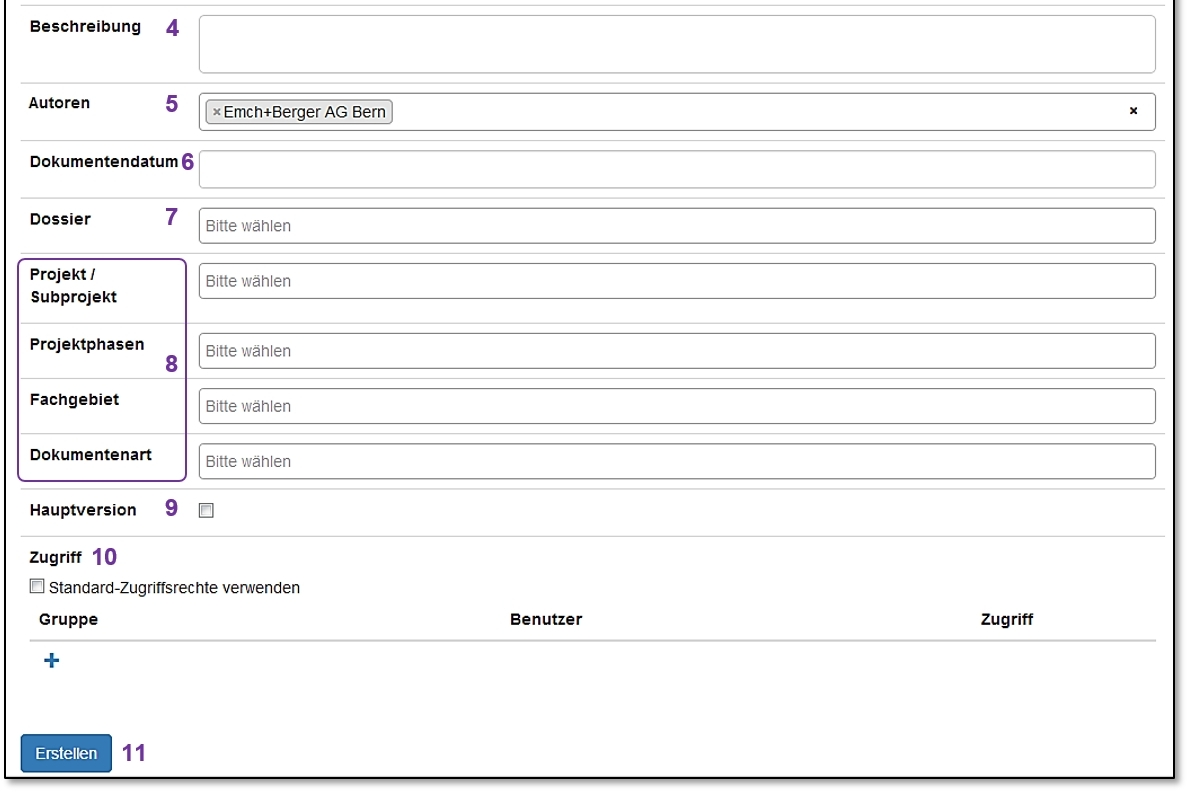
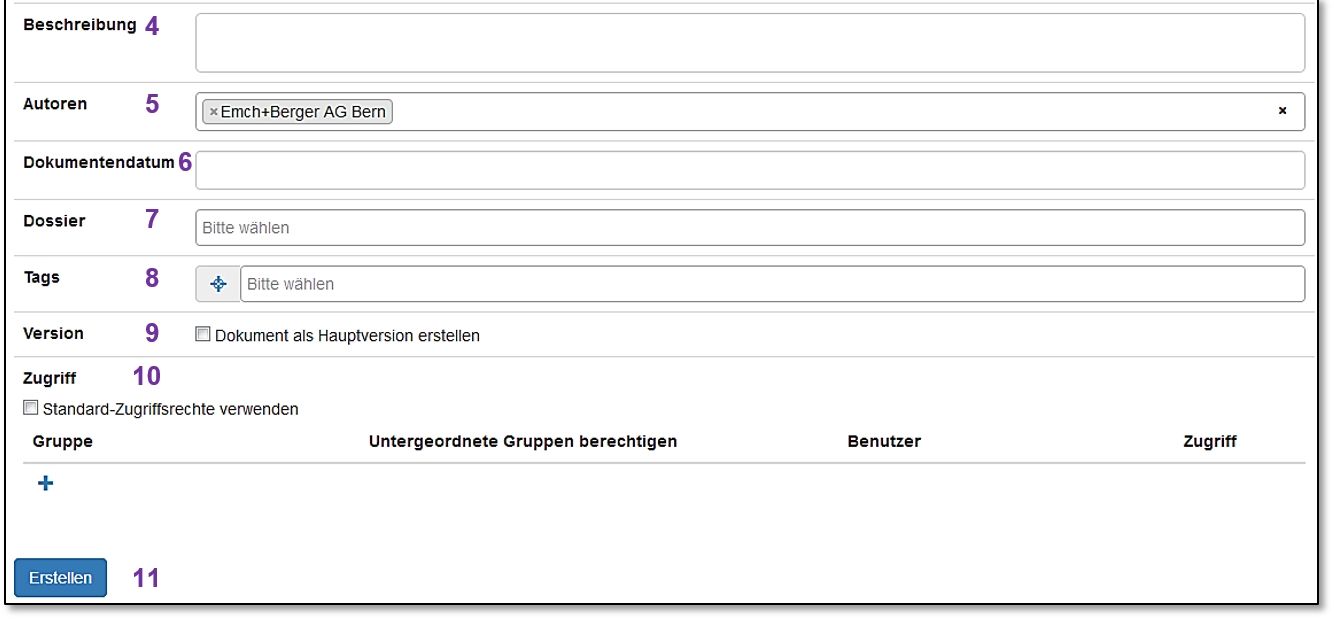
[german] Anpassung Dokumentenablage
Dokumentation der neuen Tag-Funktion/Struktur

Changed region(s): [[0.0, 0.0, 0.9941, 1.0], [0.0311, 0.8261, 0.0621, 0.8567]]

diff --git a/german/chapters/11_Dokumentenablage/11_Dokumentenablage.tex b/german/chapters/11_Dokumentenablage/11_Dokumentenablage.tex
@@ -245,7 +245,9 @@ Haben Sie ein Dokument hochgeladen oder einen Internet-Link verknüpft, können 
 
 \vspace{\baselineskip}
 
-In der Beschreibung \col{(4)} können Sie ergänzende Notizen hinterlegen. Unter Autoren \col{(5)} können Sie mittels Dropdown-Menü die Autoren auswählen. Ein Autor muss vorher erfasst worden sein. Falls ein Autor in der Liste fehlt, kann er durch den Administrator/zentrale Stelle angepasst werden. Geben Sie optional ein Dokumentendatum an \col{(6)}. Soll das Dokument einem Dossier (siehe Kapitel \ref{bkm:Ref442544219}) zugeordnet werden, kann dieses mit dem Dropdown-Menü \col{(7)} ausgewählt werden (Ein Dossier muss zuvor erstellt worden sein). Ein Dokument kann mehreren Dossiers zugeordnet werden. Klicken Sie erneut ins Dropdown-Menü, um das Dokument weiteren Dossiers zuzuordnen. Es können 'Tags' \col{(8)} definiert werden, welche dann einem Dokument zugeordnet werden können. So ist es später möglich, nach bestimmten 'Tags' zu suchen und auf diese Weise Dokumente bestimmter Projekte, Projektphasen, Fachgebiete oder Dokumentenarten zu finden. Tag-Themen (z.B. Fachgebiet) wie auch die einzelnen Tags (z.B. Bahnübergänge, Beleuchtung, Betrieb etc. können nur durch den Administrator (zentrale Stelle) angepasst resp. ergänzt werden. Fehlt etwas, nehmen Sie bitte mit der entsprechenden Stelle Kontakt auf). \newline
+In der Beschreibung \col{(4)} können Sie ergänzende Notizen hinterlegen. Unter Autoren \col{(5)} können Sie mittels Dropdown-Menü die Autoren auswählen. Ein Autor muss vorher erfasst worden sein. Falls ein Autor in der Liste fehlt, kann er durch den Administrator/zentrale Stelle angepasst werden. Geben Sie optional ein Dokumentendatum an \col{(6)}. Soll das Dokument einem Dossier (siehe Kapitel \ref{bkm:Ref442544219}) zugeordnet werden, kann dieses mit dem Dropdown-Menü \col{(7)} ausgewählt werden (Ein Dossier muss zuvor erstellt worden sein). Ein Dokument kann mehreren Dossiers zugeordnet werden. Klicken Sie erneut ins Dropdown-Menü, um das Dokument weiteren Dossiers zuzuordnen. \newline
+
+Dem Dokument können 'Tags' \col{(8)} zugeordnet werden. So ist es später möglich, nach bestimmten 'Tags' zu suchen und auf diese Weise Dokumente bestimmter Projekte, Projektphasen, Fachgebiete oder Dokumentenarten zu finden. Tag-Themen (z.B. Fachgebiet) wie auch die einzelnen Tags (z.B. Bahnübergänge, Beleuchtung, Betrieb etc. können nur durch den Administrator (zentrale Stelle) angepasst resp. ergänzt werden. Fehlt etwas, nehmen Sie bitte mit der entsprechenden Stelle Kontakt auf). Die detaillierte Handhabung mit Tags wird in Kapitel \ref{bkm:Ref201801219} (Verwendung von Tags) beschrieben. \newline
 
 Für jedes hochgeladene Dokument wird ein eigener Eintrag, jedoch mit den gleichen Eingaben der Felder (Beschreibung, Autoren Dossier, etc), erstellt. Gerade für das Zusammenstellen eines Dossiers mit vielen Dokumenten und gleicher Beschreibung, gleichem Autor etc. ist diese Vorgehensweise zeitsparend. 
 
@@ -791,6 +793,26 @@ Wenn Sie 'offline' arbeiten wollen, ist es nicht zwingend notwendig, dass Sie da
 \caption{Dokument ist für die Bearbeitung gesperrt}
 % \label{fig:speciation}
 \end{figure}
+
+\subsubsection{Verwendung von Tags}
+\label{bkm:Ref201801219}
+
+Das Setzen von Tags bei der Dokumentenablage ist eine zentrale Funktion und ermöglicht Ihnen, rasch gewünschte Suchergebnisse zu erzielen. Die Tags / eine Tag-Struktur wird vorgängig durch den Administrator / zentrale Stelle erstellt. Nachträgliche Änderungen sind nur erschwert möglich. Ein Dokument kann beliebige Tags enthalten. Im folgenden Kapitel \ref{bkm:Ref442275849} (Nach Tags suchen) erfahren Sie mehr über die Suchfunktion mittels Tags. \newline
+
+\vspace{\baselineskip}
+
+Wählen Sie beim Hochladen eines neuen Dokumentes oder später im Bearbeitungsmodus eines Dokumentes die gewünschten Tags aus. Gehen Sie dazu wie folgt vor: 
+
+\begin{figure}[H]
+\center{\includegraphics[width=1\linewidth]{../chapters/11_Dokumentenablage/pictures/11-tags_TagsAuswaehlen.jpg}}
+\caption{Tags auswählen}
+% \label{fig:speciation}
+\end{figure}
+
+Unter Tags \col{(1)} sehen Sie ein Ziel-Symbol \includegraphics[height=12pt]{/Icons/Ziel.jpg} \col{(2)}, mit welchem Sie die Tag-Struktur öffnen können. Alternativ können Sie in die Eingabezeile \col{(3)} eine Tag-Bezeichnung eingeben. Sie sehen umgehend das Suchergebnis und können aus den gefundenen Begriffen auswählen.
+
+% bishierher
+
 
 \subsubsection{Nach Tags suchen}
 \label{bkm:Ref442275849}

diff --git a/german/CUBEPA_Handbuch.tex b/german/CUBEPA_Handbuch.tex
@@ -83,7 +83,7 @@
 \HRule \\[1.5cm]
 
 \textsf{\Large Benutzerhandbuch}\\[0.5cm] % Major heading such as course name
-\textsf{\large Version 2.7 / 27.11.2017}\\[0.5cm] % Minor heading such as course title
+\textsf{\large Version 2.8 / 04.01.2018}\\[0.5cm] % Minor heading such as course title
 
 
 \pagebreak
@@ -95,13 +95,13 @@
 \begin{tabular}{lp{12cm}}
 Auftragsnummer & BE.N.\\
 Auftraggeber & .\\
-Datum & 27.11.2017\\
-Version & 2.7\\
+Datum & 04.01.2018\\
+Version & 2.8\\
 Autoren & Dieter Schopfer, Benjamin Nyffenegger, Adrian Johner, Markus Schafroth, Simon Heimberg\\
 Freigabe & Markus Schafroth\\
 Verteilen & .\\
 Datei & .\\
-Seitenzahl & 178\\
+Seitenzahl & 179\\
 Copyright & \copyright{ Emch+Berger AG Bern}\\
 \end{tabular}
 
